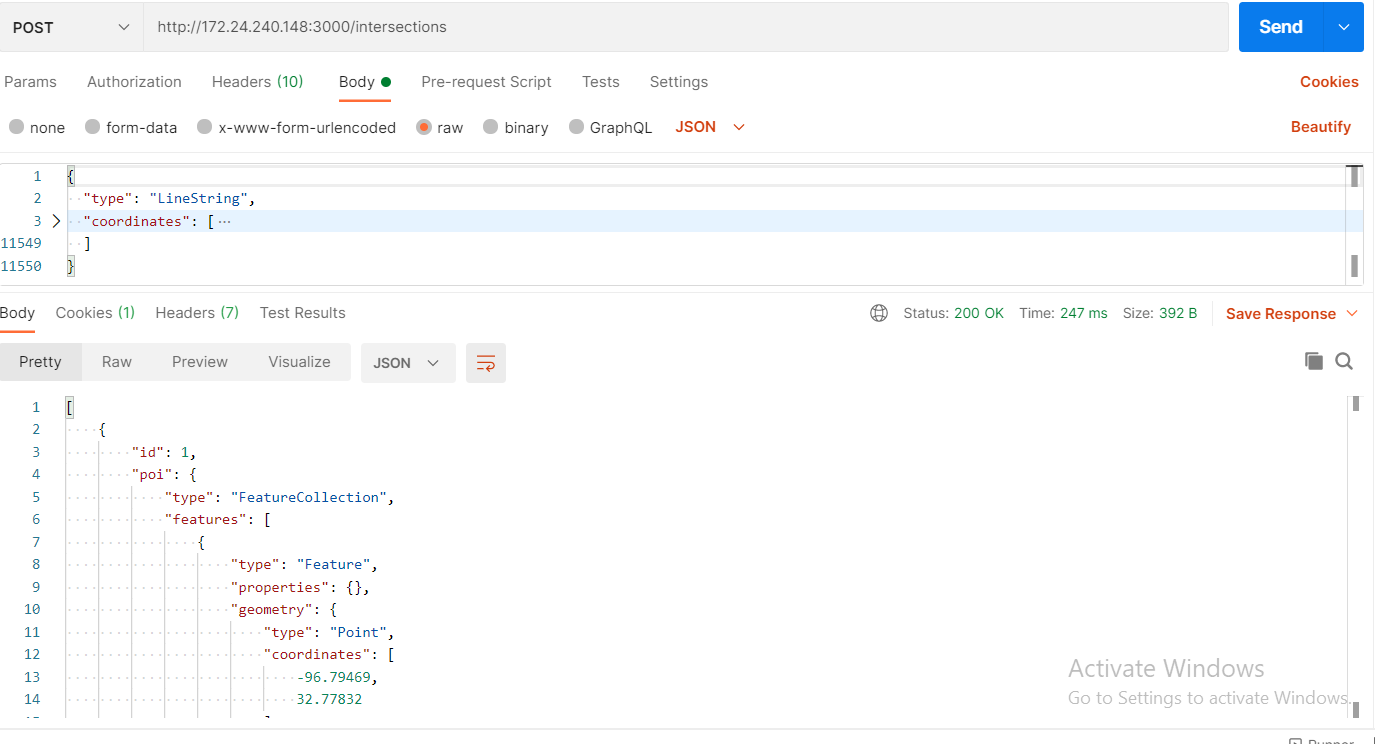
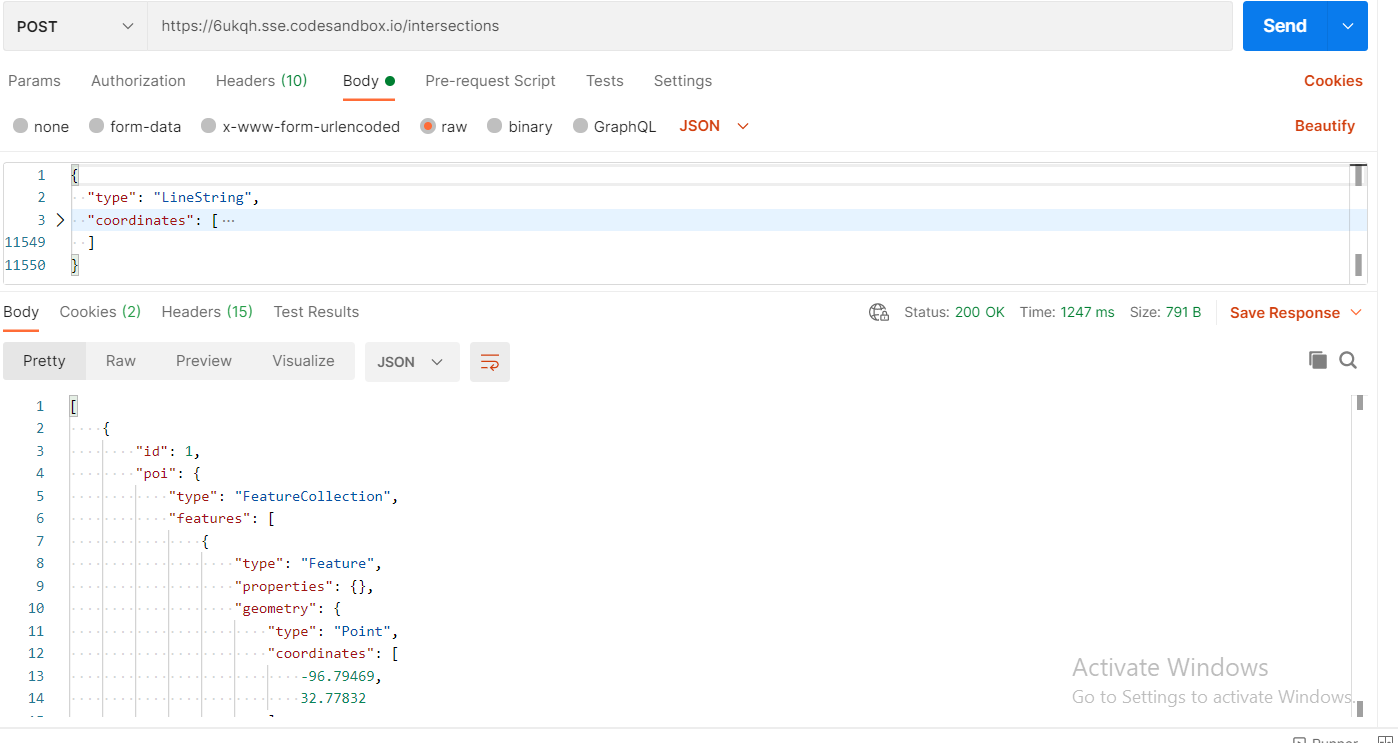
new images and update in readme

diff --git a/README.md b/README.md
@@ -1,3 +1,9 @@
+## Sandbox URL
+
+```
+https://6ukqh.sse.codesandbox.io/
+```
+
 ## To start node server
 
 ```
